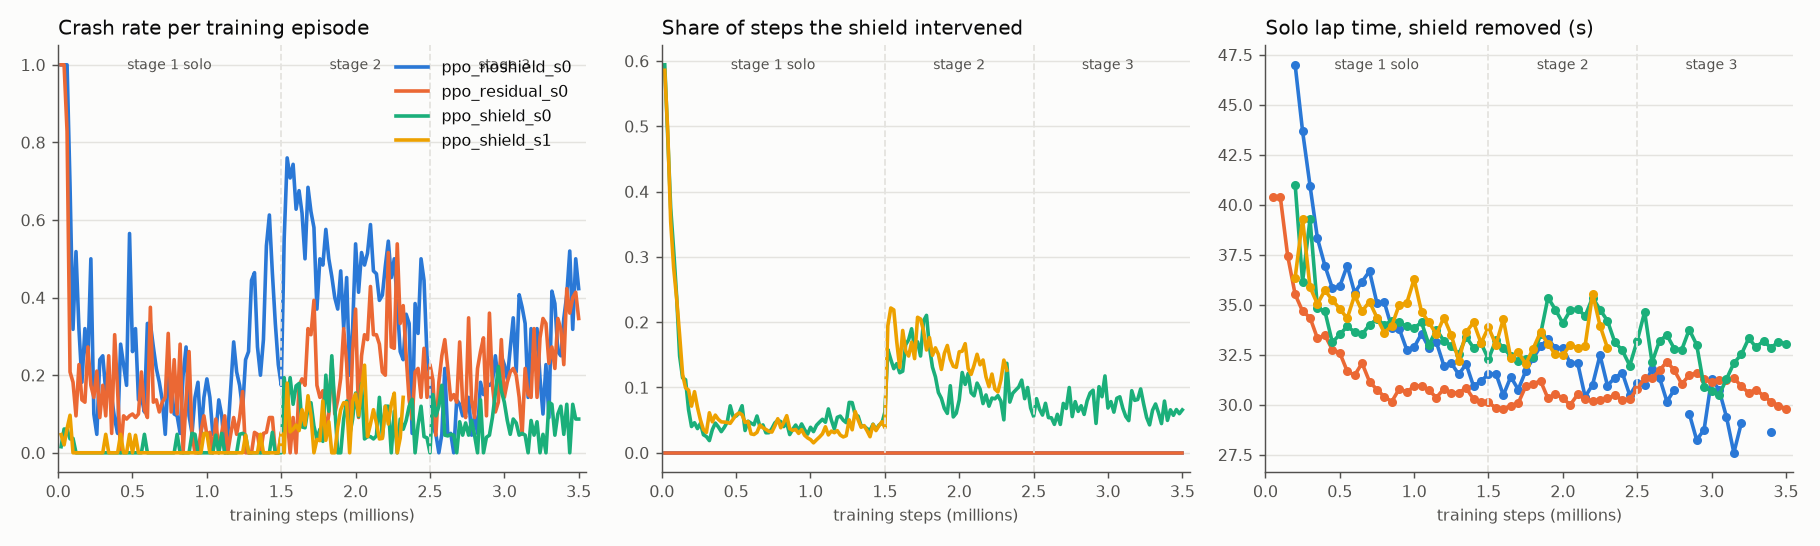
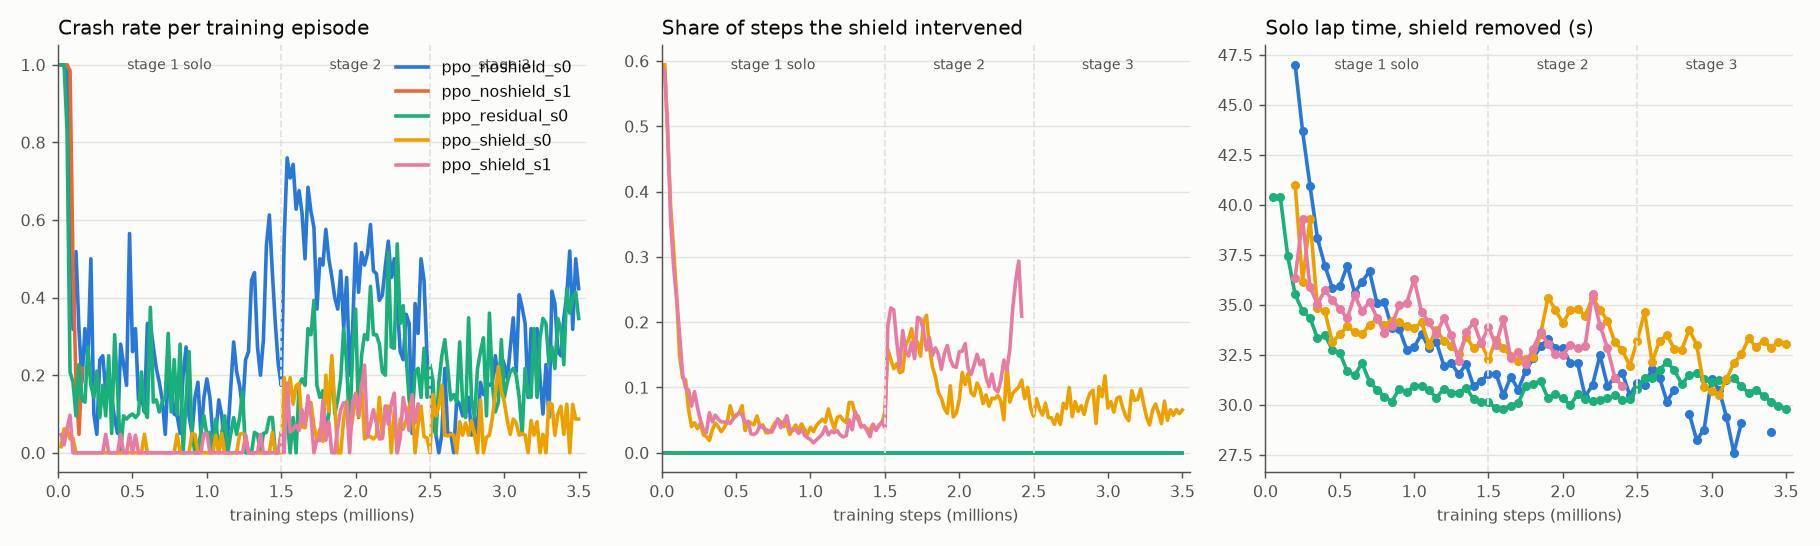
Auto-sync training progress (15:14)

diff --git a/RUNS.md b/RUNS.md
@@ -1,13 +1,13 @@
 # Run registry
 
-Auto-generated by `python -m scripts.update_registry` (2026-11-04 15:13). Each run directory `runs/<run>/` holds `args.json`, `run_info.json` (git commit, command, status), `train_log.csv` (every ~20k steps), `eval_log.csv` (solo laps with/without shield every 50k steps), `model_stage*.zip` + `vecnorm_stage*.pkl` (checkpoint after each curriculum stage). TensorBoard logs (`runs/*/tb`) stay local.
+Auto-generated by `python -m scripts.update_registry` (2026-11-04 15:14). Each run directory `runs/<run>/` holds `args.json`, `run_info.json` (git commit, command, status), `train_log.csv` (every ~20k steps), `eval_log.csv` (solo laps with/without shield every 50k steps), `model_stage*.zip` + `vecnorm_stage*.pkl` (checkpoint after each curriculum stage). TensorBoard logs (`runs/*/tb`) stay local.
 
 ## Training runs
 
 | run | purpose | config | commit | status | steps | train crash rate (stage 1/2/3) | first clean lap, shield removed | best / last solo lap, shield removed (s) | shield active (last 100k) | checkpoints |
 |---|---|---|---|---|---|---|---|---|---|---|
 | `ppo_noshield_s0` | Ablation: PPO, shield off in every stage | shield=off seed=0 tyre=saturated | `afc94c8 +dirty` | finished | 3.50M | 25% / 46% / 21% | 200k | 27.60 / 28.64 | 0% | stage1, stage2, stage3 |
-| `ppo_noshield_s1` | Ablation (no shield), seed 1 | shield=off seed=1 tyre=saturated | `b3af79a` | running | 0.14M | 67% / - / - | - | - / - | 0% | - |
+| `ppo_noshield_s1` | Ablation (no shield), seed 1 | shield=off seed=1 tyre=saturated | `b3af79a` | running | 0.16M | 61% / - / - | - | - / - | 0% | - |
 | `ppo_residual_s0` | ResRace/RaceMOP-style: PPO residual on top of PID+APF (APF shapes every command) | shield=off residual seed=0 tyre=saturated | `5549760` | finished | 3.50M | 14% / 22% / 22% | 50k | 29.80 / 29.80 | 0% | stage1, stage2, stage3 |
 | `ppo_shield_s0` | Ours: PPO + action-conditioned APF shield with fallback (grip reach), all stages | shield=cond_fb_grip seed=0 tyre=saturated | `afc94c8 +dirty` | finished | 3.50M | 1% / 9% / 7% | 200k | 30.48 / 33.04 | 6% | stage1, stage2, stage3 |
 | `ppo_shield_s1` | Ours, seed 1 | shield=cond_fb_grip seed=1 tyre=saturated | `0152028` | running | 2.42M | 1% / 8% / - | 200k | 30.92 / 30.92 | 23% | stage1 |
